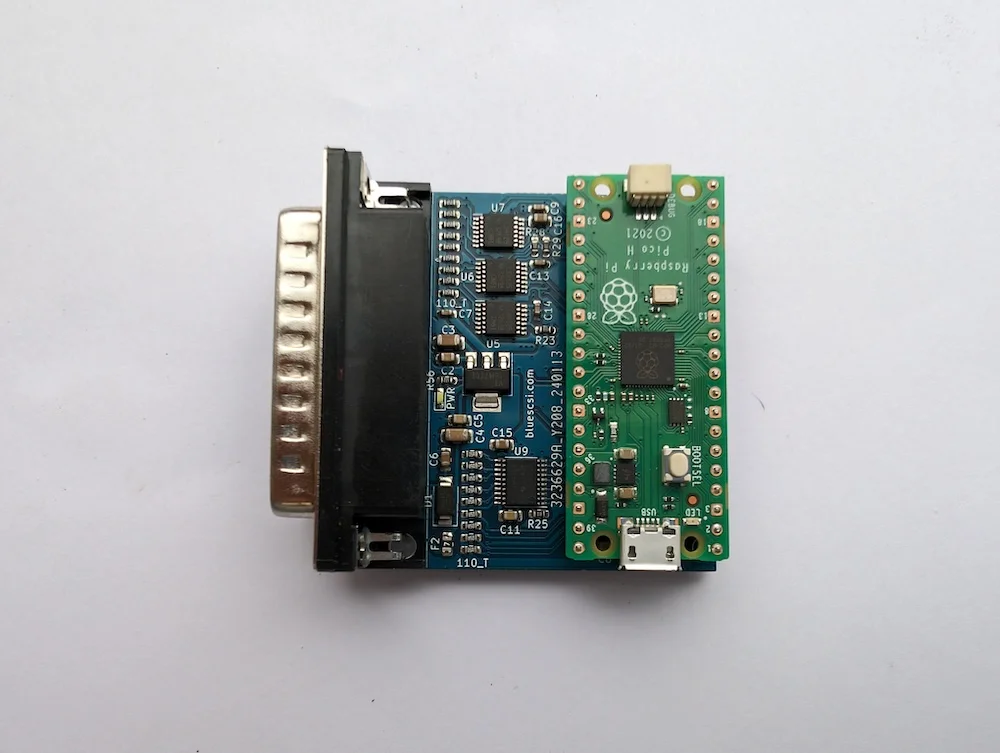
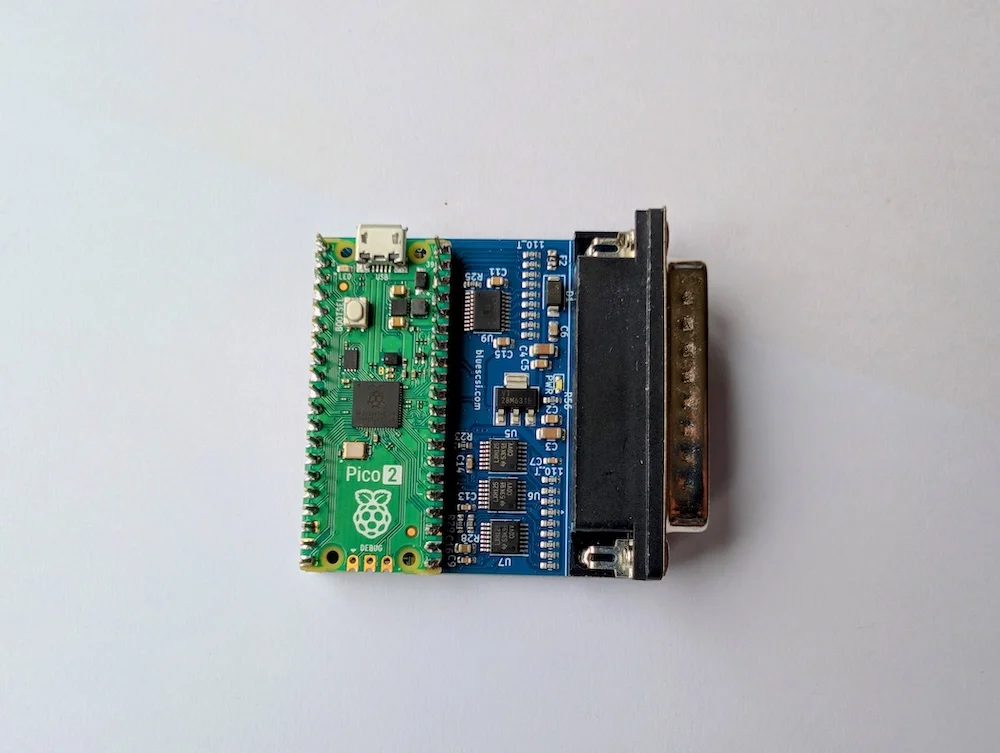
update removing old images and edit DB25 pages

diff --git a/v2db25minikiteu.md b/v2db25minikiteu.md
@@ -17,7 +17,7 @@ tags:
 
 {% include carousel3.html %}
 
-This is version (2024.01a) of the BlueSCSI DB25 Mini Kit for EU buyers. This is usually used externally from the computer. Some soldering will be required to complete this device. If you prefer a complete and tested device please choose the Full option. The Suface Mount Components are pre-soldered to the PCB so only through hole soldering is required. The normal hex nuts have been replaced with screws so as to allow plugging into the 25 pin socket flush.
+This is version (2024.01a) of the BlueSCSI DB25 Mini Kit for EU buyers. This is usually used externally from the computer. Some soldering will be required to complete this device. If you prefer a complete and tested device please choose the Full option. The Suface Mount Components are pre-soldered to the PCB so only through hole soldering is required. The normal hex nuts have been replaced with screws so as to allow plugging into the 25 pin socket flush. This comes with the standard Pico WITHOUT Wifi. If you would like the Wifi version add it [here](/pico2w).
 
 * Mini Version with Pico 2
 * SMD already soldered

diff --git a/v2db25minikituk.md b/v2db25minikituk.md
@@ -17,7 +17,7 @@ tags:
 
 {% include carousel3.html %}
 
-This is version (2024.01a) of the BlueSCSI DB25 Mini Kit for UK buyers. This is usually used externally from the computer. Some soldering will be required to complete this device. If you prefer a complete and tested device please choose the Full option. The Suface Mount Components are pre-soldered to the PCB so only through hole soldering is required. The normal hex nuts have been replaced with screws so as to allow plugging into the 25 pin socket flush.
+This is version (2024.01a) of the BlueSCSI DB25 Mini Kit for UK buyers. This is usually used externally from the computer. Some soldering will be required to complete this device. If you prefer a complete and tested device please choose the Full option. The Suface Mount Components are pre-soldered to the PCB so only through hole soldering is required. The normal hex nuts have been replaced with screws so as to allow plugging into the 25 pin socket flush. This comes with the standard Pico WITHOUT Wifi. If you would like the Wifi version add it [here](/pico2w).
 
 * Mini Version with Pico 2
 * SMD already soldered

diff --git a/v2db25minieu.md b/v2db25minieu.md
@@ -17,7 +17,7 @@ tags:
 
 {% include carousel3.html %}
 
-This is the NEW version (2024.01a) DB25 Mini Full version of the BlueSCSI for EU buyers. This is usually used externally from the computer. This is a complete and tested device. The normal hex nuts have been replaced with flat screws so as to allow plugging into the 25 pin socket flush.
+This is the NEW version (2024.01a) DB25 Mini Full version of the BlueSCSI for EU buyers. This is usually used externally from the computer. This is a complete and tested device. The normal hex nuts have been replaced with flat screws so as to allow plugging into the 25 pin socket flush. This comes with the standard Pico WITHOUT Wifi. If you would like the Wifi version add it [here](/pico2w).
 
 * New Mini Version with Pico 2
 * Tested and complete

diff --git a/v2db25miniuk.md b/v2db25miniuk.md
@@ -17,7 +17,7 @@ tags:
 
 {% include carousel3.html %}
 
-This is version (2024.01a) of the BlueSCSI DB25 Mini for UK buyers. This is usually used externally from the computer. This is a complete and tested device. The normal hex nuts have been replaced with screws so as to allow plugging into the 25 pin socket flush.
+This is version (2024.01a) of the BlueSCSI DB25 Mini for UK buyers. This is usually used externally from the computer. This is a complete and tested device. The normal hex nuts have been replaced with screws so as to allow plugging into the 25 pin socket flush. This comes with the standard Pico WITHOUT Wifi. If you would like the Wifi version add it [here](/pico2w).
 
 * Mini Version with Pico 2
 * Tested and complete
